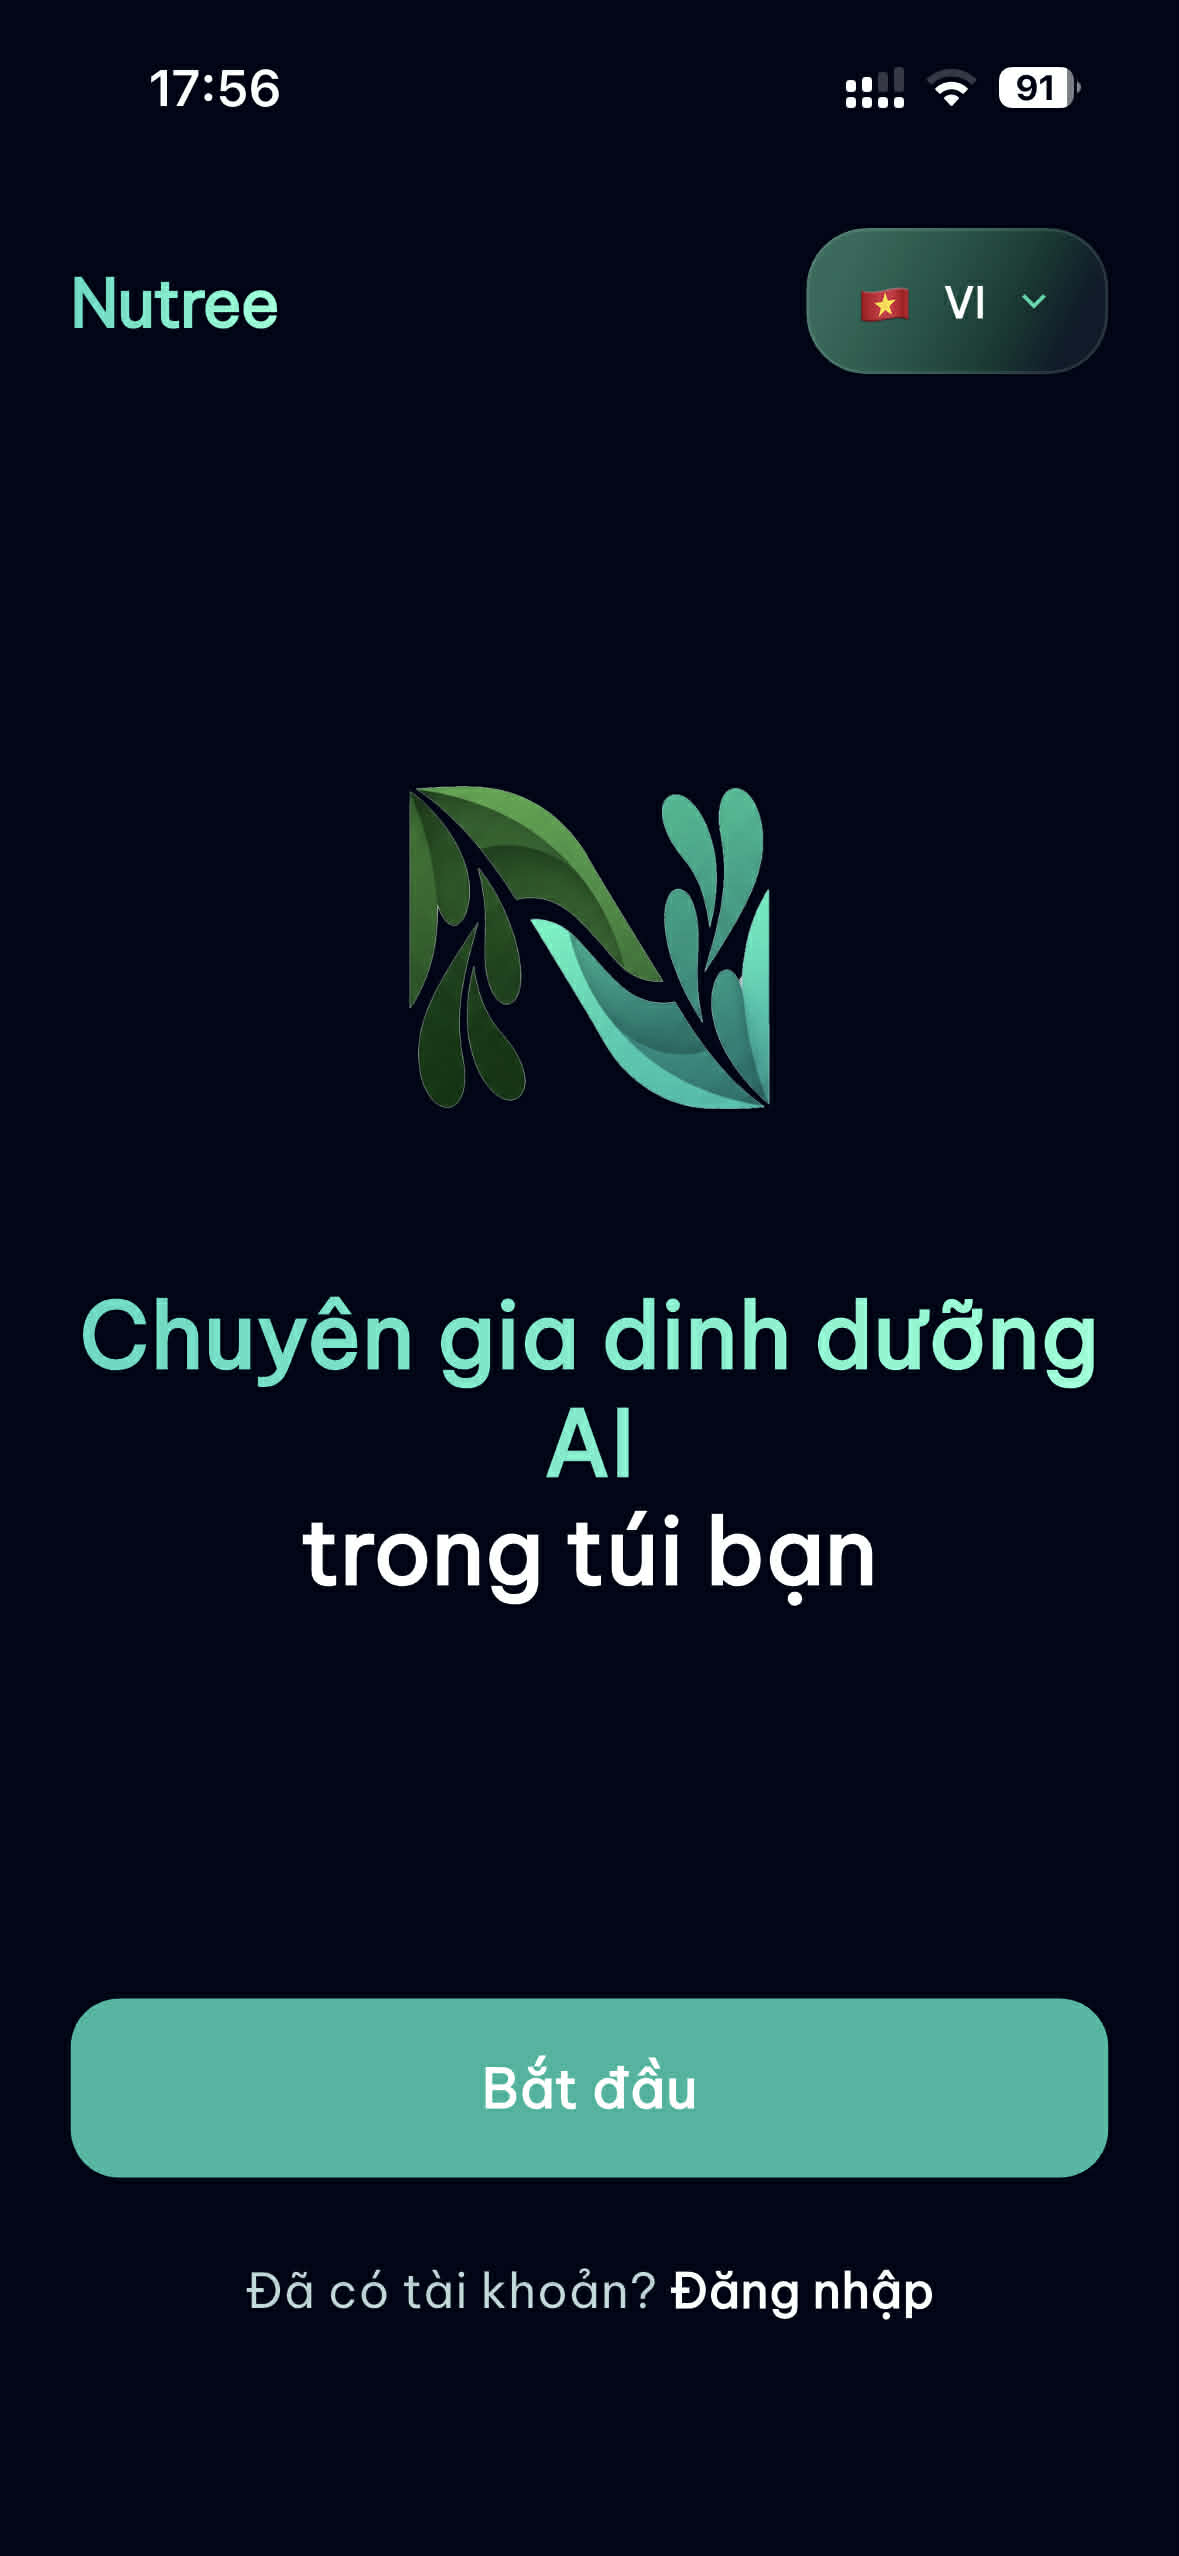
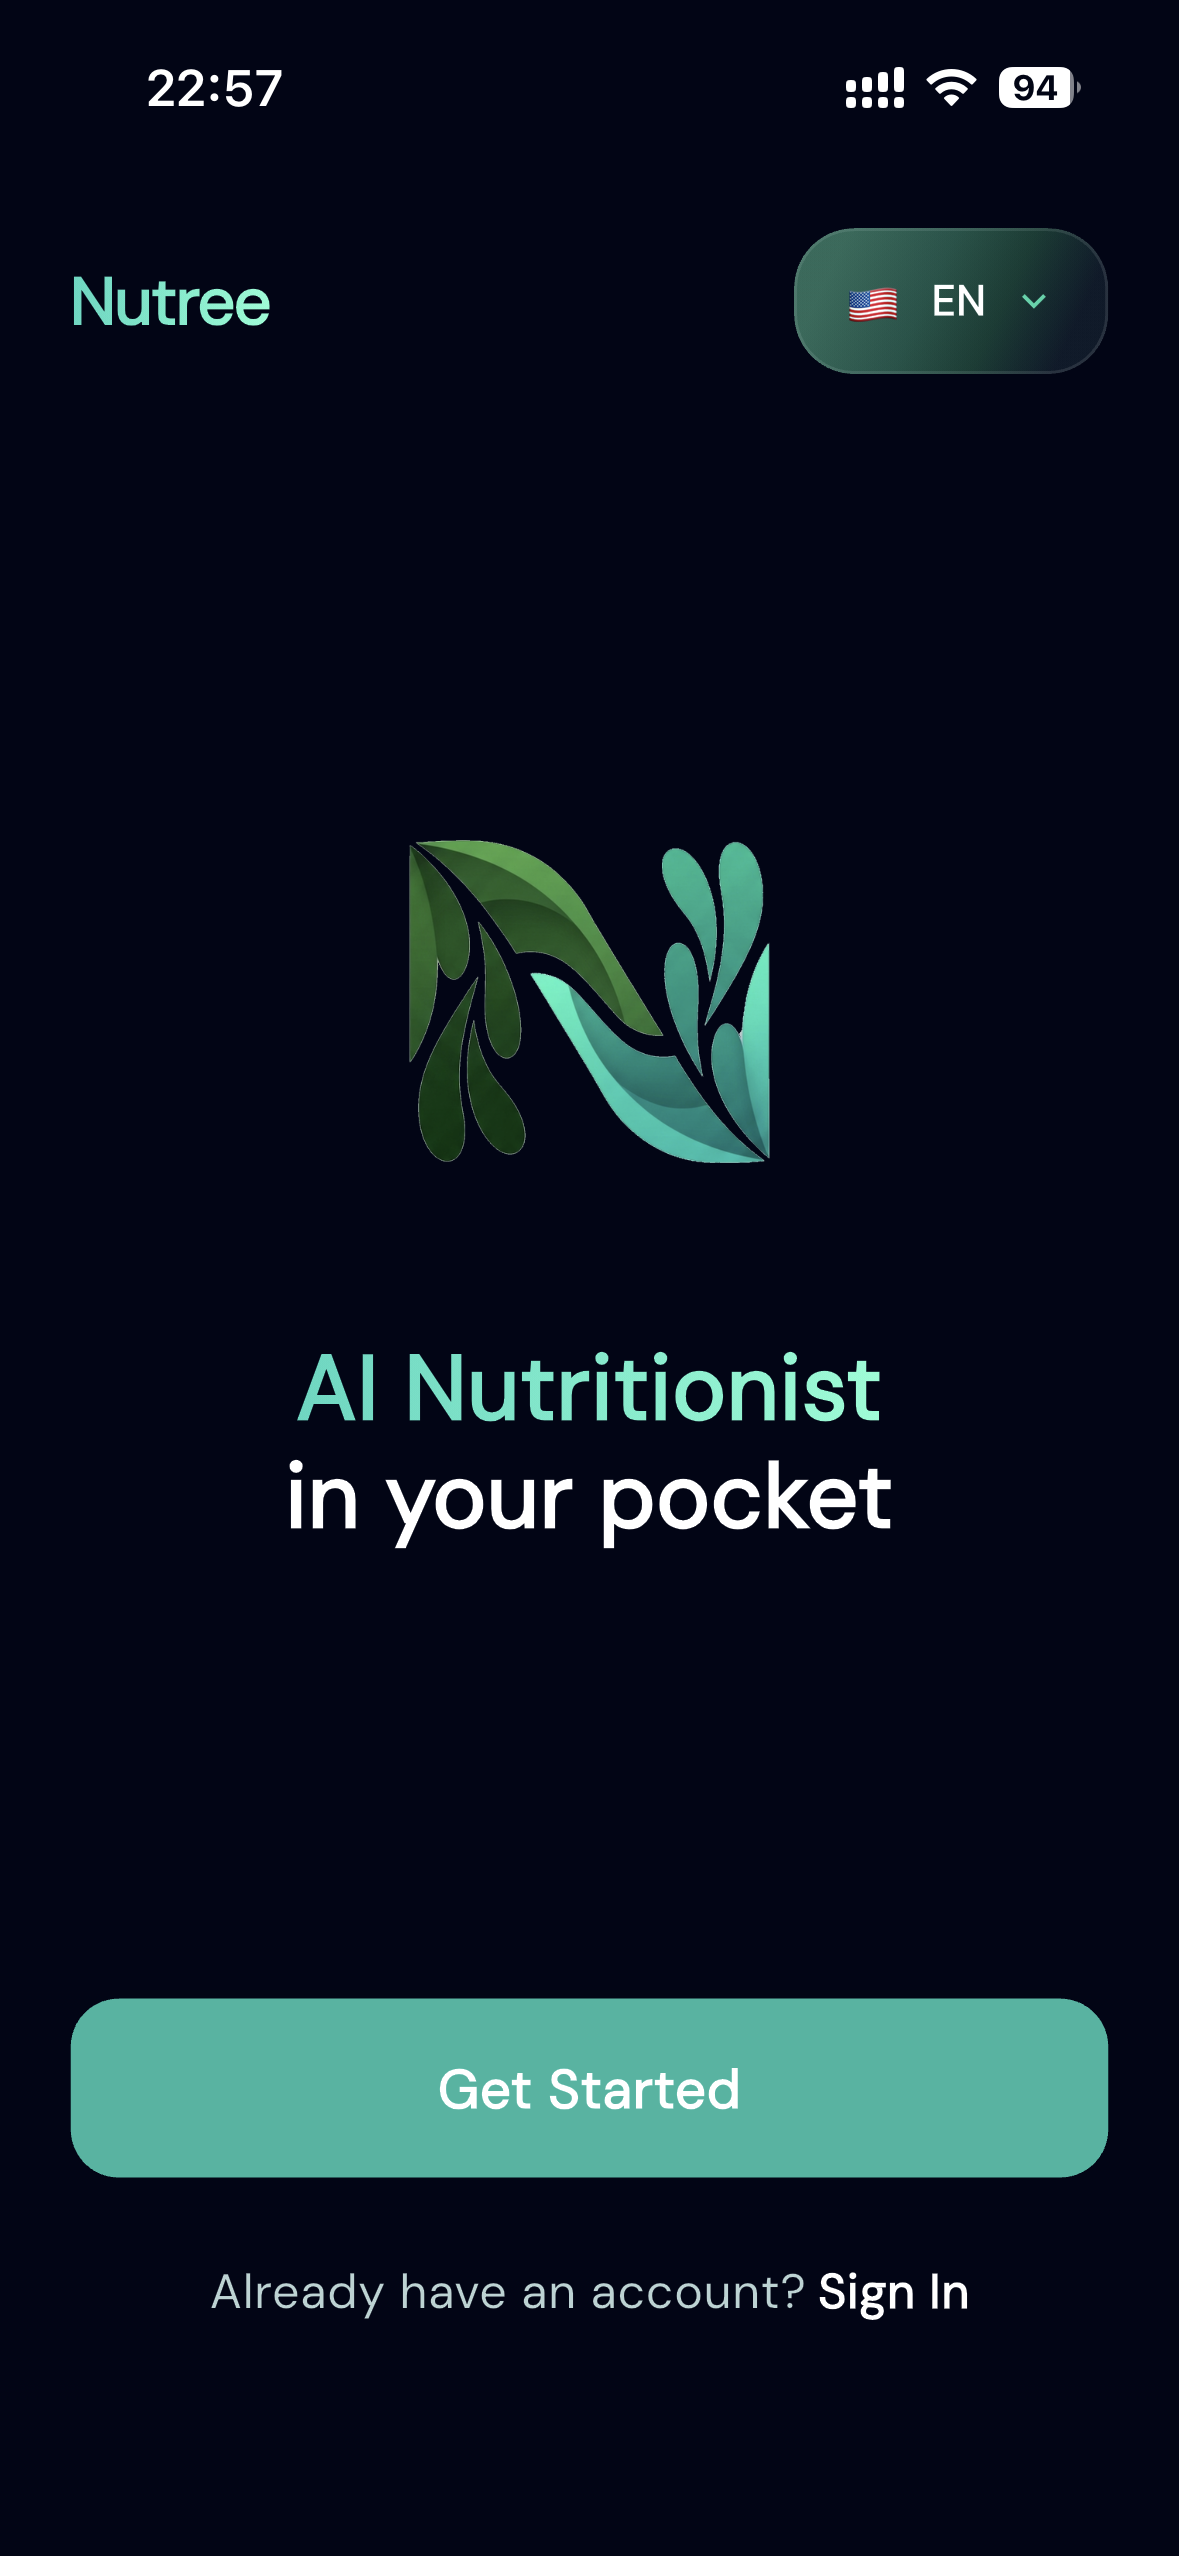
fix(web): update app screenshots to English and remove Weekly Nutrition Budget
- Replace all phone mockup screenshots with English-only versions
- Screenshot 1/2 for hero flip phone, 3 for food logging,
  4 for meal guidance, 5 for no-guilt feature
- Remove Weekly Nutrition Budget feature from both EN and VI translations
- Remove reports config from BentoFeatures

diff --git a/src/lib/translations.ts b/src/lib/translations.ts
@@ -141,12 +141,6 @@ export const translations: Record<Locale, TranslationStrings> = {
           description:
             'EN, VI, ES, FR, DE, JA, ZH — with dark/light themes and metric/imperial support.',
         },
-        {
-          id: 'reports',
-          title: 'Weekly Nutrition Budget',
-          description:
-            "Adaptive targets that update daily. Next-day preview so you always know what's coming.",
-        },
       ],
     },
     testimonials: {
@@ -288,12 +282,6 @@ export const translations: Record<Locale, TranslationStrings> = {
           title: '7 ngôn ngữ',
           description:
             'EN, VI, ES, FR, DE, JA, ZH — giao diện tối/sáng, đơn vị tùy chọn.',
-        },
-        {
-          id: 'reports',
-          title: 'Ngân sách dinh dưỡng tuần',
-          description:
-            'Mục tiêu tự cập nhật mỗi ngày. Xem trước ngày mai để luôn chủ động.',
         },
       ],
     },

diff --git a/src/components/sections/BentoFeatures.tsx b/src/components/sections/BentoFeatures.tsx
@@ -56,13 +56,6 @@ const FEATURE_CONFIG: Record<string, Omit<FeatureConfig, 'id'>> = {
       </svg>
     ),
   },
-  'reports': {
-    icon: (
-      <svg className="w-6 h-6" fill="none" viewBox="0 0 24 24" strokeWidth={1.5} stroke="currentColor">
-        <path strokeLinecap="round" strokeLinejoin="round" d="M19.5 14.25v-2.625a3.375 3.375 0 00-3.375-3.375h-1.5A1.125 1.125 0 0113.5 7.125v-1.5a3.375 3.375 0 00-3.375-3.375H8.25m2.25 0H5.625c-.621 0-1.125.504-1.125 1.125v17.25c0 .621.504 1.125 1.125 1.125h12.75c.621 0 1.125-.504 1.125-1.125V11.25a9 9 0 00-9-9z" />
-      </svg>
-    ),
-  },
 };
 
 export function BentoFeatures() {
